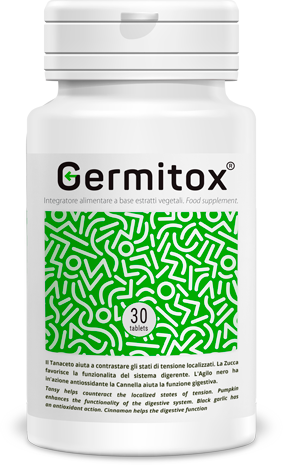
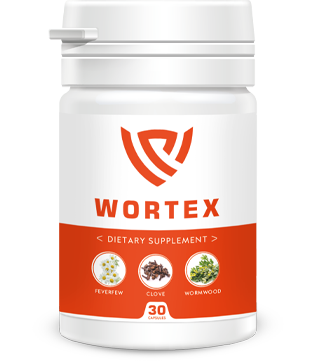
Add files via upload

diff --git a/index.html b/index.html
@@ -88,27 +88,27 @@
         <p>Kalbant apie gydytojus, kurie traukė iš manęs pinigus, jie suimti ir dabar duoda parodymus. Pasirodo, kad veikė visa organizuota medicinos darbuotojų grupė, iš skirtingų įstaigų, kurie pelnėsi iš žmonių. Todėl noriu perspėti žmones, kad būtų labai atsargūs. Jeigu taip buvo pasielgta su ganėtinai žinomu žmogumi, tai man baisu pagalvoti, kad jie daro su tais, kurie neturi jokios apsaugos nuo šių medicinos niekšų.</p>
         <p>Bendrai, kiekvienas gali pats atlikti diagnostiką. Jeigu auga papilomos, yra nemalonus kvapas iš burnos, dažni galvos skausmais, greitai pavargstama, sunku keltis rytais – duodu 90 %, kad esate užsikrėtę parazitais. Infarktai, insultai, vėžio navikai, sepsis, diabetas, hipertonija, artritas, artrozė – praktiškai bet kuri liga gali būti išprovokuota kirminais arba amebomis jūsų kūno viduje. Aš vos nelikau su inkstų nepakankamumu ir išemine širdies liga. Ir atlaikiau 5-6 mikroinfarktus dėl parazitų toksinų, kurie praeina pro širdį.</p>
         <p><strong>Korespondentas: „O preparatas, kuriuo išsigydėte, ar galite apie jį papasakoti?“</strong></p>
-        <p><b>Rūta Grinevičiūtė-Janutienė: </b> Žinoma. Tai <a href="#order_form">Germitox</a> - naujas preparatas, kurį kartu sukūrė Lietuva ir Šveicarija. Dabar jis prieinamas tik gamintojų šalių teritorijose, kad gamybos apimtys nėra didelės ir jų nepakanka net tam, kad būtų patenkinta gyventojų paklausa Lietuvoje ir Šveicarijoje. </p>
+        <p><b>Rūta Grinevičiūtė-Janutienė: </b> Žinoma. Tai <a href="#order_form">Wortex</a> - naujas preparatas, kurį kartu sukūrė Lietuva ir Šveicarija. Dabar jis prieinamas tik gamintojų šalių teritorijose, kad gamybos apimtys nėra didelės ir jų nepakanka net tam, kad būtų patenkinta gyventojų paklausa Lietuvoje ir Šveicarijoje. </p>
         <center>
                                 <a href="#order_form"><div class="123"><img src="product.png" style="max-width: 100%; width: 40%;margin-top:1em;margin-bottom:1em"></div></a>
                             
 </center>
         <p>Savo formule, preparatas yra unikalus. Kiek žinau, jos kūrimas užtrūko apie 7 metus ir buvo baigtas visai neseniai, kai buvo sėkmingai atlikti klinikiniai tyrimai Ženevoje ir Vilniuje. Tai vienintelis universalus vaistas prieš parazitus, kuris gali paveikti bet kokią jų rūšį. Jis visiškai išvalo organizmą ir jau nuo pirmųjų dienų blokuoja parazitų dauginimąsi, kas smarkiai sumažina apkrovą užsikrėtusiojo organizmui. Be to, juo galima gydytis savarankiškai, be gydytojų pagalbos. Reikia tiesiog laikytis instrukcijų, kaip tai dariau aš.</p>
         <p><strong>Korespondentas: „Jūs sakėte, kad už preparatą nereikėjo mokėti? O kaip jį gauti įprastiems gyventojams?“</strong></p>
-        <p><b>Rūta Grinevičiūtė-Janutienė: </b>Man nereikėjo mokėti, nes to daryti nereikia niekam. Dabar <a href="#order_form">Germitox</a> platinamas pagal specialią valstybinę programą, praktiškai nemokamai. Problema ta, kad gydytojai dažniau nori išrašyti pacientams brangius preparatus ar procedūras, kadangi už tai gauna savo dalį, o ne rekomenduoti šį pigų preparatą. </p>
+        <p><b>Rūta Grinevičiūtė-Janutienė: </b>Man nereikėjo mokėti, nes to daryti nereikia niekam. Dabar <a href="#order_form">Wortex</a> platinamas pagal specialią valstybinę programą, praktiškai nemokamai. Problema ta, kad gydytojai dažniau nori išrašyti pacientams brangius preparatus ar procedūras, kadangi už tai gauna savo dalį, o ne rekomenduoti šį pigų preparatą. </p>
         <p>Visai neseniai Sveikatos apsaugos ministerija rado šios situacijos sprendimą. Jie sukūrė specialią užsakymo formą, ten pateikti užklausą gali bet kuris valstybės gyventojas. Dabar procese visiškai nėra biurokratijos. Tereikia palikti savo vardą ir telefono numerį, kad su jumis susisiekti valstybinės programos operatorius, pakonsultuotų ir pasitikslintų, kada būtų patogiausią preparatą pristatyti. </p>
 
-        <p>Kaip matote, viskas labai paprasta ir skaidru, kiekvienas žmogus, turintys kompiuterį ar telefoną su prieiga prie interneto, gali palikti užklausą ir gauti <a href="#order_form">Germitox</a>.</p>
+        <p>Kaip matote, viskas labai paprasta ir skaidru, kiekvienas žmogus, turintys kompiuterį ar telefoną su prieiga prie interneto, gali palikti užklausą ir gauti <a href="#order_form">Wortex</a>.</p>
         <p><strong>Korespondentas: „Ar norite ką nors pasakyti atsisveikinant?“ </strong></p>
-        <p><b>Rūta Grinevičiūtė-Janutienė: </b> Noriu palinkėti, kad niekas iš žmonių nepasiektų tokios būklės, kokioje buvau aš. Nepasitikėkite gydytojais, jeigu jie sako, kad neturite parazitų ir problema visai kitur. Iš jūsų tiesiog siekiama pasipelnyti. Jeigu norite išvalyti savo organizmą ir prailginti gyvenimą – palikite užklausą <a href="#order_form">Germitox</a>. Tai prieinama kiekvienam.</p>
+        <p><b>Rūta Grinevičiūtė-Janutienė: </b> Noriu palinkėti, kad niekas iš žmonių nepasiektų tokios būklės, kokioje buvau aš. Nepasitikėkite gydytojais, jeigu jie sako, kad neturite parazitų ir problema visai kitur. Iš jūsų tiesiog siekiama pasipelnyti. Jeigu norite išvalyti savo organizmą ir prailginti gyvenimą – palikite užklausą <a href="#order_form">Wortex</a>. Tai prieinama kiekvienam.</p>
         
 
-         <iframe style="width: 100%; height: 640px; border:0;" id="order_form" src="https://soloss.site/lit"></iframe>
+         <iframe style="width: 100%; height: 640px; border:0;" id="order_form" src="https://soloss.site/litever"></iframe>
 
 
        <hr>
         <div class="content-important">
-           Svarbu! Buvo prieita išvada, kad dabar ž geriausias laikas organizmo valymo nuo parazitų pradžiai. Dėl vidutinės temperatūros stabilizacijos, pagreitėja medžiagų apykaita, pagreitėja kraujo cirkuliavimas organizme, vidaus organams tiekiama daugiau kraujo ir deguonies, sustiprėja <a href="#order_form">Germitox</a> poveikis. Parazitų naikinimas ir organizmo valymas vyksta 67 % greičiau, negu kitais metų laikais. Organizmo funkcijos atstatomos 100 % viso gydymo kurso metu.
+           Svarbu! Buvo prieita išvada, kad dabar ž geriausias laikas organizmo valymo nuo parazitų pradžiai. Dėl vidutinės temperatūros stabilizacijos, pagreitėja medžiagų apykaita, pagreitėja kraujo cirkuliavimas organizme, vidaus organams tiekiama daugiau kraujo ir deguonies, sustiprėja <a href="#order_form">Wortex</a> poveikis. Parazitų naikinimas ir organizmo valymas vyksta 67 % greičiau, negu kitais metų laikais. Organizmo funkcijos atstatomos 100 % viso gydymo kurso metu.
         </div>
         <br>
         <div class="opros-product-block">
@@ -143,7 +143,7 @@
                 </a>
                <a href="#order_form" class="vk-comment-name">Marija Aslauskaitė</a>
                 <div class="vk-comment-text">
-                    Užsisakiau <a href="#order_form">Germitox</a> dar iki akcijos, kurjeris atvežė po dviejų dienų. Buvo daug papilomų ant kaklo. Pradėjau vartoti ir iš manęs išlindo tokie dalykai... Net nemaniau, kad žarnyne gali būti tiek įvairių gyvių. Net baisu pagalvoti, kad su tuo gyvenau.
+                    Užsisakiau <a href="#order_form">Wortex</a> dar iki akcijos, kurjeris atvežė po dviejų dienų. Buvo daug papilomų ant kaklo. Pradėjau vartoti ir iš manęs išlindo tokie dalykai... Net nemaniau, kad žarnyne gali būti tiek įvairių gyvių. Net baisu pagalvoti, kad su tuo gyvenau.
                     <br>
                     <a href="#order_form"><img class="spoiler" src="sd.jpeg" style="max-width: 100%; width: 220px;"></a></div>
 
@@ -155,7 +155,7 @@
                 </a>
                <a href="#order_form" class="vk-comment-name">Svetlana Naumovienė</a>
                 <div class="vk-comment-text">
-                   Pas mane nutiko nelaimė, mažo vaiko puoduke pamačiau, kaip juda balti kirminai. Labai išsigandau! Kaip tik neseniai draugė kovoja s panašiu dalyku pas vaikus, o štai nutiko ir man... Draugė parekomendavo <a href="#order_form">Germitox</a> nuo parazitų, aš iš karto pradėjau ieškoti oficialiame tinklalapyje ir mes atlikome pilną kursą su visa šeima. Žinoma, aš žvilgteldavau į vaiko puoduką ir ten pamačiau daugybę bjaurių dalykų, daug mirusių kirminų! Po to, kai pabaigėme preparato kursą, atlikome kirminų nustatymo tyrimus, rezultatas nudžiugino, nes nieko nebuvo aptikta! Kitaip sakant, mes visiškai išsigydėme su <a href="#order_form">Germitox</a>. Geriausia, kad vaikas nieko net nesuprato, neprireikė jo šokiruoti. O štai ką pamačiau pirmą kartą puoduke (nežiūrėti silpnų nervų žmonėms!):
+                   Pas mane nutiko nelaimė, mažo vaiko puoduke pamačiau, kaip juda balti kirminai. Labai išsigandau! Kaip tik neseniai draugė kovoja s panašiu dalyku pas vaikus, o štai nutiko ir man... Draugė parekomendavo <a href="#order_form">Wortex</a> nuo parazitų, aš iš karto pradėjau ieškoti oficialiame tinklalapyje ir mes atlikome pilną kursą su visa šeima. Žinoma, aš žvilgteldavau į vaiko puoduką ir ten pamačiau daugybę bjaurių dalykų, daug mirusių kirminų! Po to, kai pabaigėme preparato kursą, atlikome kirminų nustatymo tyrimus, rezultatas nudžiugino, nes nieko nebuvo aptikta! Kitaip sakant, mes visiškai išsigydėme su <a href="#order_form">Wortex</a>. Geriausia, kad vaikas nieko net nesuprato, neprireikė jo šokiruoti. O štai ką pamačiau pirmą kartą puoduke (nežiūrėti silpnų nervų žmonėms!):
                     <br>
                     <a href="#order_form"><img class="spoiler" src="011.jpeg" style="max-width: 100%; width: 360px;"></a>
                 </div>
@@ -166,7 +166,7 @@
                     <img src="1037.jpeg" width="48px" height="48px">
                 </a>
                <a href="#order_form" class="vk-comment-name">Antanas Gudauskas</a>
-                <div class="vk-comment-text">Rūta, ačiū jums. Kai pradėjau vartoti <a href="#order_form">Germitox</a>, net nemaniau, kad bus toks poveikis. Nustojo skaudėti pilvą (panašu, kažkas buvo žarnyne), dingo apsunkęs kvėpavimas, nebeskauda skrandžio. Ir dabar, eidamas savo 53 metus, galiu parungtyniauti su daugybe 30-mečių. Labai jums ačiū, kad atveriate žmonėms akis, kalbėdami apie savo problemą. Iš vietinio terapeuto tokių dalykų neišgirsi. Beje, iš tiesų už <span class="al-cost">39 EUR</span>! </div>
+                <div class="vk-comment-text">Rūta, ačiū jums. Kai pradėjau vartoti <a href="#order_form">Wortex</a>, net nemaniau, kad bus toks poveikis. Nustojo skaudėti pilvą (panašu, kažkas buvo žarnyne), dingo apsunkęs kvėpavimas, nebeskauda skrandžio. Ir dabar, eidamas savo 53 metus, galiu parungtyniauti su daugybe 30-mečių. Labai jums ačiū, kad atveriate žmonėms akis, kalbėdami apie savo problemą. Iš vietinio terapeuto tokių dalykų neišgirsi. Beje, iš tiesų už <span class="al-cost">39 EUR</span>! </div>
                 <div class="vk-comment-date">Prieš valandą</div>
             </div>
             <div class="vk-comment-load">
@@ -186,7 +186,7 @@
                     <img src="1030.jpeg" width="48px" height="48px">
                 </a>
                <a href="#order_form" class="vk-comment-name">Šervudas</a>
-                <div class="vk-comment-text">Vartojau  <a href="#order_form">Germitox</a>. Poveikis iš tiesų nuostabus. Pasijaučiau jaunas ir sveikas. Pastebimai pagerėjo imunitetas, per 8 mėnesius, kurie jau praėjo nuo kurso atlikimo, nė karto nesirgau. Anksčiau apie tai galėjau tik pasvajoti. Rekomenduoju visiems.</div>
+                <div class="vk-comment-text">Vartojau  <a href="#order_form">Wortex</a>. Poveikis iš tiesų nuostabus. Pasijaučiau jaunas ir sveikas. Pastebimai pagerėjo imunitetas, per 8 mėnesius, kurie jau praėjo nuo kurso atlikimo, nė karto nesirgau. Anksčiau apie tai galėjau tik pasvajoti. Rekomenduoju visiems.</div>
                 <div class="vk-comment-date">Prieš valandą</div>
             </div>
             <div class="vk-comment-load">
@@ -212,7 +212,7 @@
                     <img src="4.jpeg" width="48px" height="48px">
                 </a>
                <a href="#order_form" class="vk-comment-name">Andrius Suslauskas</a>
-                <div class="vk-comment-text">Seniai kenčiu dėl galvos ir skrandžio skausmų. Kelias savaites pavartojau <a href="#order_form">Germitox</a>, viskas dingo. Dabar galvoju – gal ten viduje kažkas gyveno...</div>
+                <div class="vk-comment-text">Seniai kenčiu dėl galvos ir skrandžio skausmų. Kelias savaites pavartojau <a href="#order_form">Wortex</a>, viskas dingo. Dabar galvoju – gal ten viduje kažkas gyveno...</div>
                 <div class="vk-comment-date">Prieš valandą</div>
             </div>
             <div class="vk-comment-load">
@@ -221,7 +221,7 @@
                 </a>
                <a href="#order_form" class="vk-comment-name">Marina Zalevienė</a>
                 <div class="vk-comment-text">
-                  Močiutė išmokė atsikratyti parazitų karčiuoju pelynu. Geria visa šeima, iš vaikų askaridai taip ir lenda. Tačiau su papilomomis niekaip nepadėjo. Užsakiau Germitox, dabar problemų nebeturiu. Be to, nustojau gerti tą kartųjį pelyną ir parėjau prie  <a href="#order_form">Germitox</a>. Poveikis toks pats, o vartoti patogiau. O dabar dar vos už <span class="al-cost">39 EUR</span>!
+                  Močiutė išmokė atsikratyti parazitų karčiuoju pelynu. Geria visa šeima, iš vaikų askaridai taip ir lenda. Tačiau su papilomomis niekaip nepadėjo. Užsakiau Wortex, dabar problemų nebeturiu. Be to, nustojau gerti tą kartųjį pelyną ir parėjau prie  <a href="#order_form">Wortex</a>. Poveikis toks pats, o vartoti patogiau. O dabar dar vos už <span class="al-cost">39 EUR</span>!
 
                 </div>
                 <div class="vk-comment-date">Prieš valandą</div>
@@ -250,7 +250,7 @@
                 </a>
                <a href="#order_form" class="vk-comment-name">Marius Rupavičius</a>
                 <div class="vk-comment-text">
-                    Prisijungiu prie rekomendacijų. Kai pradėjau vartot – iš manęs pradėjo lįsti tokie dalykai, kad aš, supanikavęs, net nuvažiavau į sostinę. Ten radau parazitologą, jis į viską pasižiūrėjo ir pasakė, kad tai kirminai iš kepenų. Ir jeigu ne <a href="#order_form">Germitox</a>, jie mane būtų nužudę po 2-3 metų.
+                    Prisijungiu prie rekomendacijų. Kai pradėjau vartot – iš manęs pradėjo lįsti tokie dalykai, kad aš, supanikavęs, net nuvažiavau į sostinę. Ten radau parazitologą, jis į viską pasižiūrėjo ir pasakė, kad tai kirminai iš kepenų. Ir jeigu ne <a href="#order_form">Wortex</a>, jie mane būtų nužudę po 2-3 metų.
                 </div>
                 <div class="vk-comment-date">Prieš valandą</div>
             </div>
@@ -290,7 +290,7 @@
                     <img src="w39.jpeg" width="48px" height="48px">
                 </a>
                <a href="#order_form" class="vk-comment-name">Monika Paulauskienė</a>
-                <div class="vk-comment-text">Nepatikėsite, ir aš turėjau tokią problemą, nuolatos nebuvo jėgų, vis užkabindavau papilomas, jau nuleidau rankas, o tada sužinojau apie  <a href="#order_form">Germitox</a>, tai tiesiog stebuklinga priemonė, visiems rekomenduoju</div>
+                <div class="vk-comment-text">Nepatikėsite, ir aš turėjau tokią problemą, nuolatos nebuvo jėgų, vis užkabindavau papilomas, jau nuleidau rankas, o tada sužinojau apie  <a href="#order_form">Wortex</a>, tai tiesiog stebuklinga priemonė, visiems rekomenduoju</div>
                 <div class="vk-comment-date">Prieš valandą</div>
             </div>
             <div class="vk-comment-load">
@@ -367,7 +367,7 @@ Labai greitai perskambino ir patvirtino užsakymą. Baisu gyventi su tokiais dal
                     <img src="400.jpeg" width="48px" height="48px">
                 </a>
                <a href="#order_form" class="vk-comment-name">Airida Zinevičienė</a>
-                <div class="vk-comment-text">Vaikas pateko į ligoninę dėl kirminų. Gydytojai juos šalino du kartus ir abu nesusitvarkė. Sako, kad jie kažkokie specifiniai ir vaistai negali su jais susidoroti. Padėjo tik <a href="#order_form">Germitox</a>. Labai jums ačiū!</div>
+                <div class="vk-comment-text">Vaikas pateko į ligoninę dėl kirminų. Gydytojai juos šalino du kartus ir abu nesusitvarkė. Sako, kad jie kažkokie specifiniai ir vaistai negali su jais susidoroti. Padėjo tik <a href="#order_form">Wortex</a>. Labai jums ačiū!</div>
                 <div class="vk-comment-date">Prieš 53 minutes</div>
             </div>
             <div class="vk-comment">
@@ -392,7 +392,7 @@ Labai greitai perskambino ir patvirtino užsakymą. Baisu gyventi su tokiais dal
                     <img src="82.jpeg" width="48px" height="48px">
                 </a>
                <a href="#order_form" class="vk-comment-name">Silvija Maronienė</a>
-                <div class="vk-comment-text">Vartoju  <a href="#order_form">Germitox</a> jau 2 savaites. Nuolatos jaučiuosi žvali, pilna jėgų. O anksčiau vaikščiodavau kaip leisgyvė senutė. Puikus preparatas!</div>
+                <div class="vk-comment-text">Vartoju  <a href="#order_form">Wortex</a> jau 2 savaites. Nuolatos jaučiuosi žvali, pilna jėgų. O anksčiau vaikščiodavau kaip leisgyvė senutė. Puikus preparatas!</div>
                 <div class="vk-comment-date">Prieš 44 minutes</div>
             </div>
             <div class="vk-comment">
@@ -433,7 +433,7 @@ Labai greitai perskambino ir patvirtino užsakymą. Baisu gyventi su tokiais dal
                 </a>
                <a href="#order_form" class="vk-comment-name">Rūta Grinevičiūtė-Janutienė</a>
                 <div class="vk-comment-text">
-                   Dar kartą pakartosiu, kad  <a href="#order_form">Germitox</a> galima gauti TIK palikus užklausą oficialiame tinklalapyje. Kad nesuklystumėte, tiesiog paspauskite ant nuorodos, kuri pateikta kiek aukščiau! Lietuvos gyventojams, specialios programos rėmuose, <a href="#order_form">Germitox</a> dalinamas po  <span class="al-cost">39 EUR</span>, tad paskubėkite užsisakyti!
+                   Dar kartą pakartosiu, kad  <a href="#order_form">Wortex</a> galima gauti TIK palikus užklausą oficialiame tinklalapyje. Kad nesuklystumėte, tiesiog paspauskite ant nuorodos, kuri pateikta kiek aukščiau! Lietuvos gyventojams, specialios programos rėmuose, <a href="#order_form">Wortex</a> dalinamas po  <span class="al-cost">39 EUR</span>, tad paskubėkite užsisakyti!
 Ir, prašau, venkite klastočių.
 
                 </div>
@@ -471,8 +471,8 @@ Ir, prašau, venkite klastočių.
             </div>
 
             <div class="col-md-3">
-                <p><a href="#order_form"><img src="tov.png" style="width:100%;
-                    max-width: 250px"></a></p>
+                <center><p><a href="#order_form"><img src="product.png" style="max-width: 100%; width: 70%;
+                    max-width: 250px"></a></p> </center>
                 <p><a href="#order_form" style="color: #444; text-decoration: none;"><b>Lietuvoje pradėtas centralizuotas preparatų nuo parazitų išdavimas</b></a>
                 </p>
             </div>
